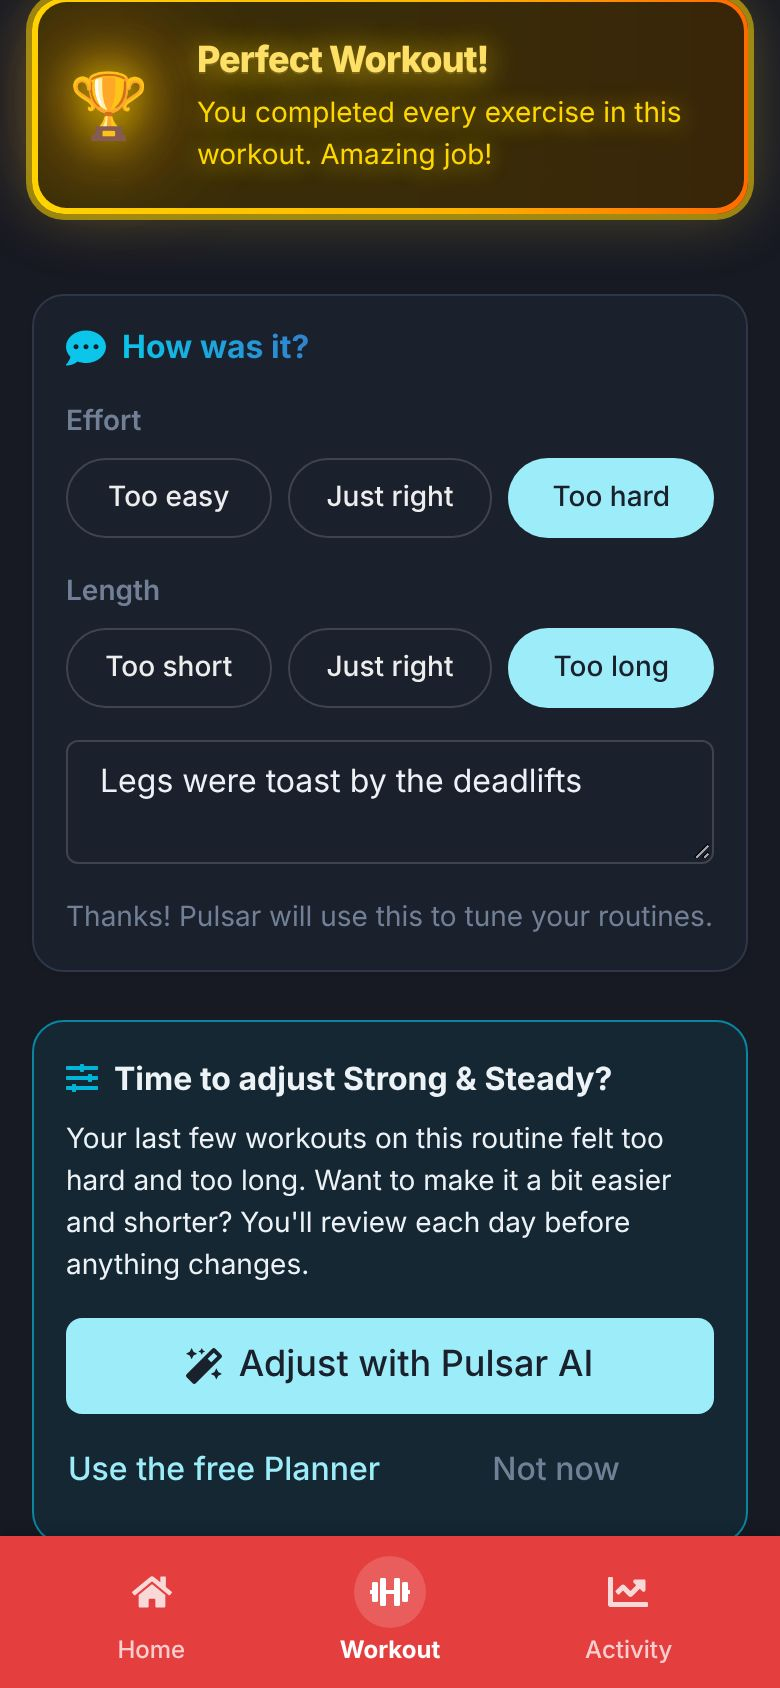
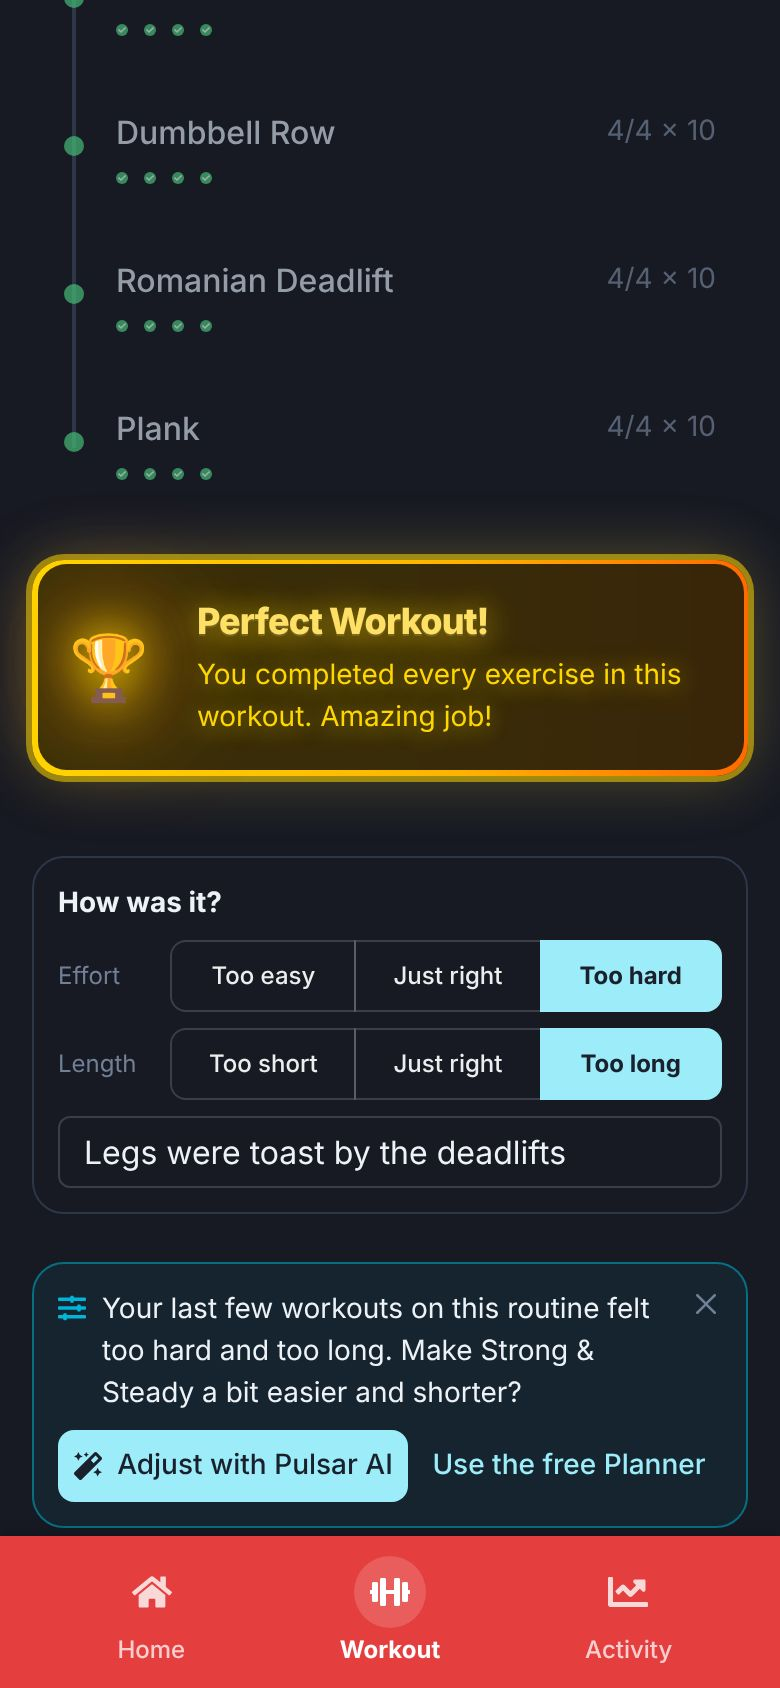
Make the workout feedback card and adjust offer compact
'How was it?' is now two rows of small segmented choices with the note
behind an 'Add a note' link, and no hint text. The adjust offer is one
sentence with the two actions on a row and 'Not now' as a close button.
Homepage feedback shot refreshed.

Claude-Session: https://claude.ai/code/session_01H47hBH2oYB4MAyLCVgKsBX

diff --git a/src/components/WorkoutFeedbackCard.tsx b/src/components/WorkoutFeedbackCard.tsx
@@ -1,12 +1,11 @@
 // "How was it?" on a finished workout: how hard and how long it felt, and an optional note.
-// Each tap saves right away. The planners learn from it (see utils/learnedPreferences.ts):
-// workouts that keep feeling too hard or too long make the next plan easier or shorter.
+// Kept small and quiet: two rows of three choices, and the note behind a link. Each tap saves
+// right away. The planners learn from it (see utils/learnedPreferences.ts): workouts that keep
+// feeling too hard or too long make the next plan easier or shorter.
 
-import { Box, Button, Flex, SimpleGrid, Text, Textarea } from '@chakra-ui/react';
+import { Box, Button, ButtonGroup, Flex, Input, Text } from '@chakra-ui/react';
 import { useEffect, useState } from 'react';
-import { FaCommentDots } from 'react-icons/fa';
 import type { Workout, WorkoutEffort, WorkoutLengthFeel } from '../models/types';
-import SectionCard from './SectionCard';
 
 const EFFORT: { value: WorkoutEffort; label: string }[] = [
   { value: 'easy', label: 'Too easy' },
@@ -28,26 +27,30 @@ function Choices<T extends string>({ label, options, value, onChange }: {
   onChange: (value: T | undefined) => void;
 }) {
   return (
-    <Box>
-      <Text fontSize="sm" fontWeight="semibold" color="gray.500" mb={2}>{label}</Text>
-      <SimpleGrid columns={3} spacing={2} role="group" aria-label={label}>
-        {options.map(o => (
-          <Button
-            key={o.value}
-            size="md"
-            fontSize="sm"
-            px={2}
-            borderRadius="full"
-            variant={value === o.value ? 'solid' : 'outline'}
-            colorScheme={value === o.value ? 'cyan' : 'gray'}
-            aria-pressed={value === o.value}
-            onClick={() => onChange(value === o.value ? undefined : o.value)}
-          >
-            {o.label}
-          </Button>
-        ))}
-      </SimpleGrid>
-    </Box>
+    <Flex align="center" gap={2}>
+      <Text fontSize="xs" color="gray.500" w="48px" flexShrink={0}>{label}</Text>
+      <ButtonGroup size="sm" isAttached variant="outline" flex={1} role="group" aria-label={label}>
+        {options.map(o => {
+          const on = value === o.value;
+          return (
+            <Button
+              key={o.value}
+              flex={1}
+              h="36px"
+              px={1}
+              fontSize="xs"
+              fontWeight={on ? 700 : 500}
+              colorScheme={on ? 'cyan' : 'gray'}
+              variant={on ? 'solid' : 'outline'}
+              aria-pressed={on}
+              onClick={() => onChange(on ? undefined : o.value)}
+            >
+              {o.label}
+            </Button>
+          );
+        })}
+      </ButtonGroup>
+    </Flex>
   );
 }
 
@@ -56,7 +59,7 @@ export default function WorkoutFeedbackCard({ workout, onChange }: {
   onChange: (workout: Workout) => void;
 }) {
   const [note, setNote] = useState(workout.feedback ?? '');
-  const rated = workout.effort || workout.lengthFeel || workout.feedback;
+  const [showNote, setShowNote] = useState(!!workout.feedback);
 
   const saveNote = () => {
     const feedback = note.trim() || undefined;
@@ -71,24 +74,34 @@ export default function WorkoutFeedbackCard({ workout, onChange }: {
   }, [note]);
 
   return (
-    <SectionCard icon={FaCommentDots} title="How was it?">
-      <Flex direction="column" gap={4}>
+    <Box borderWidth="1px" borderRadius="xl" px={3} py={3} bg="white" _dark={{ bg: 'gray.900', borderColor: 'gray.700' }}>
+      <Flex align="baseline" justify="space-between" mb={2}>
+        <Text fontSize="sm" fontWeight={700}>How was it?</Text>
+        {!showNote && (
+          <Button variant="link" size="xs" colorScheme="cyan" fontWeight={500} onClick={() => setShowNote(true)}>
+            Add a note
+          </Button>
+        )}
+      </Flex>
+      <Flex direction="column" gap={2}>
         <Choices label="Effort" options={EFFORT} value={workout.effort} onChange={effort => onChange({ ...workout, effort })} />
         <Choices label="Length" options={LENGTH} value={workout.lengthFeel} onChange={lengthFeel => onChange({ ...workout, lengthFeel })} />
-        <Textarea
-          aria-label="Notes on this workout"
-          placeholder="Anything else? (optional)"
-          value={note}
-          maxLength={MAX_NOTE}
-          onChange={e => setNote(e.target.value)}
-          onBlur={saveNote}
-          rows={2}
-          fontSize="md"
-        />
-        <Text fontSize="sm" color="gray.500">
-          {rated ? 'Thanks! Pulsar will use this to tune your routines.' : 'Pulsar uses this to tune your routines.'}
-        </Text>
+        {showNote && (
+          <Input
+            aria-label="Notes on this workout"
+            placeholder="Anything else? (optional)"
+            value={note}
+            maxLength={MAX_NOTE}
+            onChange={e => setNote(e.target.value)}
+            onBlur={saveNote}
+            autoFocus={!workout.feedback}
+            size="sm"
+            h="36px"
+            fontSize="md"
+            borderRadius="md"
+          />
+        )}
       </Flex>
-    </SectionCard>
+    </Box>
   );
 }

diff --git a/src/components/RoutineAdjustOffer.tsx b/src/components/RoutineAdjustOffer.tsx
@@ -4,7 +4,7 @@
 // no-AI alternative. Either way the result is a suggested change the user reviews day by day
 // on the routine page.
 
-import { Box, Button, Flex, Icon, Text, useColorModeValue, useToast } from '@chakra-ui/react';
+import { Box, Button, CloseButton, Flex, Icon, Text, useColorModeValue, useToast } from '@chakra-ui/react';
 import { FaListUl, FaMagic, FaSlidersH } from 'react-icons/fa';
 import { useNavigate } from 'react-router-dom';
 import { v4 as uuidv4 } from 'uuid';
@@ -24,8 +24,8 @@ export default function RoutineAdjustOffer({ routine, trend }: { routine: Routin
   const updateRoutine = usePulsarStore(s => s.updateRoutine);
   const navigate = useNavigate();
   const toast = useToast();
-  const bg = useColorModeValue('cyan.50', 'rgba(0, 163, 196, 0.1)');
-  const border = useColorModeValue('cyan.300', 'cyan.700');
+  const bg = useColorModeValue('cyan.50', 'rgba(0, 163, 196, 0.08)');
+  const border = useColorModeValue('cyan.100', 'cyan.800');
 
   const latest = () => usePulsarStore.getState().routines.find(r => r.id === routine.id) ?? routine;
   const markHandled = (extra: Partial<Routine> = {}) => updateRoutine({ ...latest(), ...extra, feedbackHandledAt: Date.now() });
@@ -76,22 +76,19 @@ export default function RoutineAdjustOffer({ routine, trend }: { routine: Routin
   });
 
   return (
-    <Box bg={bg} borderWidth="1px" borderColor={border} borderRadius="xl" p={{ base: 4, sm: 5 }} data-testid="routine-adjust-offer">
-      <Flex align="center" gap={2} mb={2}>
-        <Icon as={FaSlidersH} color="cyan.500" boxSize={4} />
-        <Text fontWeight="bold">Time to adjust {routine.name}?</Text>
+    <Box bg={bg} borderWidth="1px" borderColor={border} borderRadius="xl" px={3} py={3} data-testid="routine-adjust-offer">
+      <Flex gap={2} align="flex-start" mb={2}>
+        <Icon as={FaSlidersH} color="cyan.500" boxSize={3.5} mt="3px" flexShrink={0} />
+        <Text fontSize="sm" flex={1}>
+          {describeTrend(trend)} Make {routine.name} {describeWant(trend)}?
+        </Text>
+        <CloseButton size="sm" mt={-1} mr={-1} color="gray.500" aria-label="Not now" onClick={() => void markHandled()} />
       </Flex>
-      <Text fontSize="sm" mb={4}>
-        {describeTrend(trend)} Want to make it {describeWant(trend)}? You'll review each day before anything changes.
-      </Text>
-      <Flex direction="column" gap={2}>
-        <Button colorScheme="cyan" size="lg" leftIcon={<FaMagic />} onClick={handleAdjust}>
+      <Flex gap={1} align="center">
+        <Button colorScheme="cyan" size="sm" h="36px" leftIcon={<FaMagic />} onClick={handleAdjust}>
           Adjust with Pulsar AI
         </Button>
-        <Flex gap={2}>
-          <Button flex={1} variant="ghost" onClick={() => void adjustWithPlanner()}>Use the free Planner</Button>
-          <Button flex={1} variant="ghost" color="gray.500" onClick={() => void markHandled()}>Not now</Button>
-        </Flex>
+        <Button size="sm" h="36px" variant="ghost" onClick={() => void adjustWithPlanner()}>Use the free Planner</Button>
       </Flex>
       {aiGate.gate}
     </Box>

diff --git a/e2e/workout.spec.ts b/e2e/workout.spec.ts
@@ -60,9 +60,19 @@ test('finishing a workout early flags the skipped exercises', async ({ page }) =
   // "How was it?" saves each answer right away, so it's still there after a reload.
   await page.getByRole('group', { name: 'Effort' }).getByRole('button', { name: 'Too hard' }).click();
   await page.getByRole('group', { name: 'Length' }).getByRole('button', { name: 'Too long' }).click();
+  await page.getByRole('button', { name: 'Add a note' }).click();
   await page.getByRole('textbox', { name: 'Notes on this workout' }).fill('Squats hurt my knee');
   await page.getByRole('textbox', { name: 'Notes on this workout' }).blur();
-  await expect(page.getByText('Thanks! Pulsar will use this to tune your routines.')).toBeVisible();
+  await expect.poll(() => page.evaluate(async () => {
+    const req = indexedDB.open('PulsarDB', 1);
+    const db = await new Promise<IDBDatabase>((resolve) => { req.onsuccess = () => resolve(req.result); });
+    const all = await new Promise<any[]>((resolve) => {
+      const get = db.transaction('workouts').objectStore('workouts').getAll();
+      get.onsuccess = () => resolve(get.result);
+    });
+    db.close();
+    return all.some(w => w.effort === 'hard' && w.lengthFeel === 'long' && w.feedback === 'Squats hurt my knee');
+  })).toBe(true);
   await page.reload();
   await expect(page.getByRole('group', { name: 'Effort' }).getByRole('button', { name: 'Too hard' })).toHaveAttribute('aria-pressed', 'true');
   await expect(page.getByRole('group', { name: 'Length' }).getByRole('button', { name: 'Too long' })).toHaveAttribute('aria-pressed', 'true');
